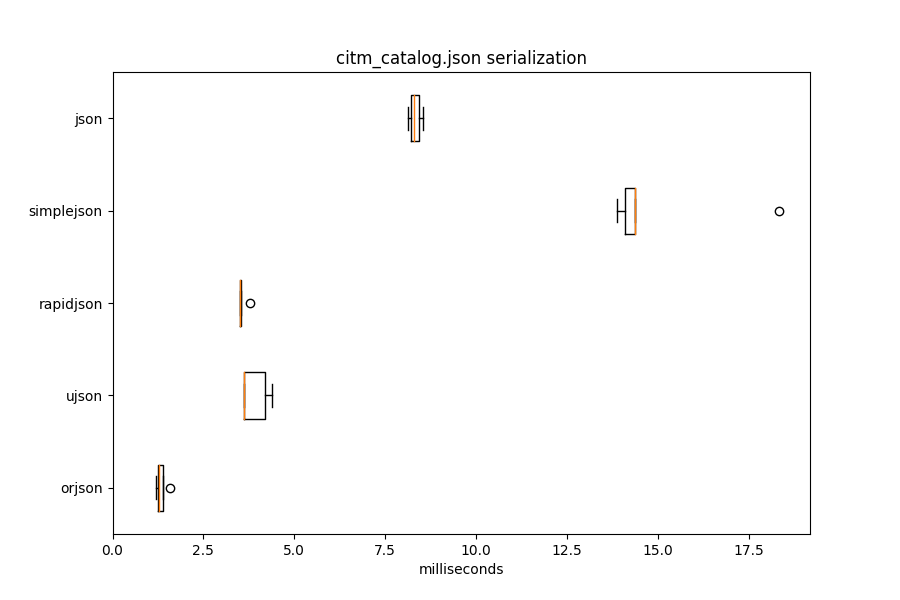
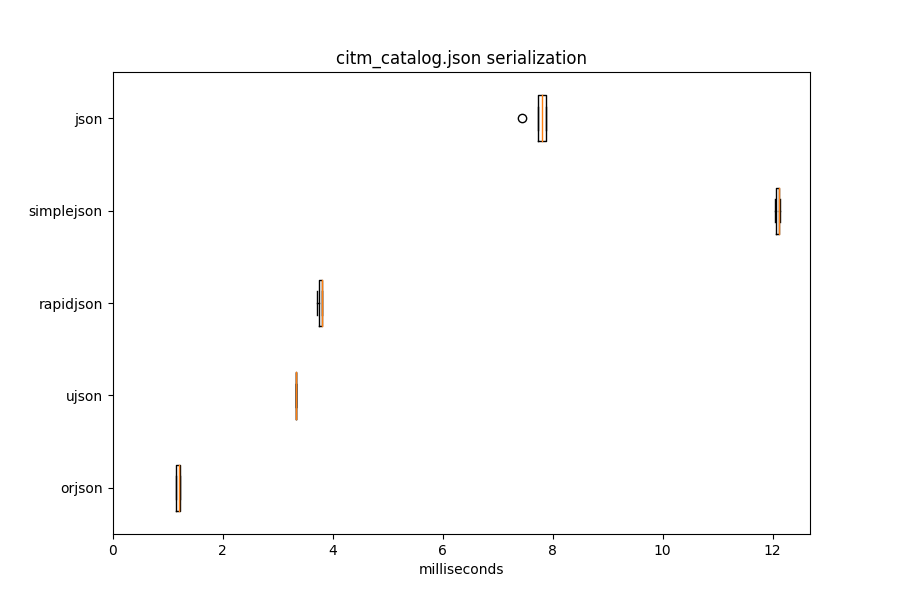
2.2.1

diff --git a/README.md b/README.md
@@ -492,81 +492,83 @@ format, containing floats and arrays, indented.
 
 | Library    |   Median latency (milliseconds) |   Operations per second |   Relative (latency) |
 |------------|---------------------------------|-------------------------|----------------------|
-| orjson     |                            0.75 |                  1297.5 |                 1    |
-| ujson      |                            2.06 |                   483.5 |                 2.74 |
-| rapidjson  |                            2.12 |                   470.7 |                 2.82 |
-| simplejson |                            3.55 |                   275.2 |                 4.73 |
-| json       |                            3.57 |                   277.8 |                 4.75 |
+| orjson     |                            0.74 |                  1358.5 |                 1    |
+| ujson      |                            1.95 |                   511.1 |                 2.65 |
+| rapidjson  |                            2.58 |                   387.1 |                 3.51 |
+| simplejson |                            3.49 |                   287   |                 4.74 |
+| json       |                            3.4  |                   294.4 |                 4.61 |
 
 #### twitter.json deserialization
 
 | Library    |   Median latency (milliseconds) |   Operations per second |   Relative (latency) |
 |------------|---------------------------------|-------------------------|----------------------|
-| orjson     |                            3.29 |                   302.3 |                 1    |
-| ujson      |                            3.65 |                   281.2 |                 1.11 |
-| rapidjson  |                            5.6  |                   179.1 |                 1.7  |
-| simplejson |                            5.19 |                   188.3 |                 1.58 |
-| json       |                            5.62 |                   184.2 |                 1.71 |
+| orjson     |                            2.74 |                   364.5 |                 1    |
+| ujson      |                            3.01 |                   332.7 |                 1.1  |
+| rapidjson  |                            3.98 |                   251.1 |                 1.45 |
+| simplejson |                            3.64 |                   275.5 |                 1.33 |
+| json       |                            4.27 |                   234.5 |                 1.56 |
 
 #### github.json serialization
 
 | Library    |   Median latency (milliseconds) |   Operations per second |   Relative (latency) |
 |------------|---------------------------------|-------------------------|----------------------|
-| orjson     |                            0.08 |                 12363.5 |                 1    |
-| ujson      |                            0.2  |                  4834.3 |                 2.55 |
-| rapidjson  |                            0.23 |                  4385.4 |                 2.84 |
-| simplejson |                            0.42 |                  2360.3 |                 5.28 |
-| json       |                            0.36 |                  2709.1 |                 4.53 |
+| orjson     |                            0.08 |                 12278.6 |                 1    |
+| ujson      |                            0.19 |                  5243.6 |                 2.33 |
+| rapidjson  |                            0.29 |                  3427.9 |                 3.57 |
+| simplejson |                            0.47 |                  2125.3 |                 5.77 |
+| json       |                            0.36 |                  2774.1 |                 4.4  |
 
 #### github.json deserialization
 
 | Library    |   Median latency (milliseconds) |   Operations per second |   Relative (latency) |
 |------------|---------------------------------|-------------------------|----------------------|
-| orjson     |                            0.25 |                  3992.4 |                 1    |
-| ujson      |                            0.32 |                  3065.1 |                 1.28 |
-| rapidjson  |                            0.42 |                  2400.2 |                 1.68 |
-| simplejson |                            0.3  |                  3293.5 |                 1.21 |
-| json       |                            0.38 |                  2410   |                 1.54 |
+| orjson     |                            0.23 |                  4300.7 |                 1    |
+| ujson      |                            0.29 |                  3459.3 |                 1.24 |
+| rapidjson  |                            0.33 |                  2980.8 |                 1.43 |
+| simplejson |                            0.31 |                  3186.4 |                 1.36 |
+| json       |                            0.35 |                  2892.5 |                 1.5  |
 
 #### citm_catalog.json serialization
 
 | Library    |   Median latency (milliseconds) |   Operations per second |   Relative (latency) |
 |------------|---------------------------------|-------------------------|----------------------|
-| orjson     |                            1.27 |                   746.2 |                 1    |
-| ujson      |                            3.63 |                   257.1 |                 2.86 |
-| rapidjson  |                            3.52 |                   279.8 |                 2.77 |
-| simplejson |                           14.37 |                    66.6 |                11.31 |
-| json       |                            8.28 |                   120.2 |                 6.52 |
+| orjson     |                            1.21 |                   835   |                 1    |
+| ujson      |                            3.33 |                   299.9 |                 2.76 |
+| rapidjson  |                            3.8  |                   264.8 |                 3.14 |
+| simplejson |                           12.12 |                    82.7 |                10.02 |
+| json       |                            7.81 |                   129   |                 6.46 |
 
 #### citm_catalog.json deserialization
 
 | Library    |   Median latency (milliseconds) |   Operations per second |   Relative (latency) |
 |------------|---------------------------------|-------------------------|----------------------|
-| orjson     |                            5.61 |                   175.8 |                 1    |
-| ujson      |                            6.78 |                   146.8 |                 1.21 |
-| rapidjson  |                            7.71 |                   129.4 |                 1.37 |
-| simplejson |                            9.01 |                   108.8 |                 1.61 |
-| json       |                            8.49 |                   116.1 |                 1.51 |
+| orjson     |                            5.25 |                   190.5 |                 1    |
+| ujson      |                            6.49 |                   154.1 |                 1.24 |
+| rapidjson  |                            8    |                   124.9 |                 1.52 |
+| simplejson |                            7.94 |                   125.7 |                 1.51 |
+| json       |                            8.62 |                   116.1 |                 1.64 |
 
 #### canada.json serialization
 
 | Library    |   Median latency (milliseconds) |   Operations per second |   Relative (latency) |
 |------------|---------------------------------|-------------------------|----------------------|
-| orjson     |                            5.28 |                   189.6 |                 1    |
+| orjson     |                            5.54 |                   180.6 |                 1    |
 | ujson      |                                 |                         |                      |
-| rapidjson  |                           69.38 |                    14.3 |                13.14 |
-| simplejson |                           99.43 |                     9.4 |                18.84 |
-| json       |                           76.44 |                    12.9 |                14.48 |
+| rapidjson  |                           70.29 |                    14.4 |                12.69 |
+| simplejson |                           90.03 |                    11.2 |                16.25 |
+| json       |                           73.39 |                    13.6 |                13.25 |
 
 #### canada.json deserialization
 
 | Library    |   Median latency (milliseconds) |   Operations per second |   Relative (latency) |
 |------------|---------------------------------|-------------------------|----------------------|
-| orjson     |                           22.22 |                    45.1 |                 1    |
+| orjson     |                           19.6  |                    51   |                 1    |
 | ujson      |                                 |                         |                      |
-| rapidjson  |                           44.56 |                    21.4 |                 2.01 |
-| simplejson |                           42.99 |                    23.2 |                 1.93 |
-| json       |                           44.69 |                    21.4 |                 2.01 |
+| rapidjson  |                           42.02 |                    23.9 |                 2.14 |
+| simplejson |                           40.19 |                    24.9 |                 2.05 |
+| json       |                           41.5  |                    24.1 |                 2.12 |
+
+
 
 If a row is blank, the library did not serialize and deserialize the fixture without
 modifying it, e.g., returning different values for floating point numbers.
@@ -584,46 +586,46 @@ calling `loads()` on the fixture.
 
 | Library    |   import, read() RSS (MiB) |   loads() increase in RSS (MiB) |
 |------------|----------------------------|---------------------------------|
-| orjson     |                       12.9 |                             2.8 |
-| ujson      |                       12.8 |                             4.6 |
-| rapidjson  |                       14.5 |                             6.5 |
-| simplejson |                       13.1 |                             2.7 |
-| json       |                       12.5 |                             2.4 |
+| orjson     |                       13.7 |                             2.4 |
+| ujson      |                       13.4 |                             4   |
+| rapidjson  |                       14.8 |                             6.5 |
+| simplejson |                       13.3 |                             2.5 |
+| json       |                       12.8 |                             2.6 |
 
 #### github.json
 
 | Library    |   import, read() RSS (MiB) |   loads() increase in RSS (MiB) |
 |------------|----------------------------|---------------------------------|
-| orjson     |                       12.3 |                             0.3 |
-| ujson      |                       12.6 |                             0.5 |
-| rapidjson  |                       13.9 |                             0.4 |
+| orjson     |                       12.9 |                             0.3 |
+| ujson      |                       12.5 |                             0.4 |
+| rapidjson  |                       13.9 |                             0.6 |
 | simplejson |                       12.5 |                             0.3 |
-| json       |                       11.7 |                             0.3 |
+| json       |                       12.1 |                             0.4 |
 
 #### citm_catalog.json
 
 | Library    |   import, read() RSS (MiB) |   loads() increase in RSS (MiB) |
 |------------|----------------------------|---------------------------------|
-| orjson     |                       13.7 |                             8.5 |
-| ujson      |                       13.9 |                            12   |
-| rapidjson  |                       15.4 |                            30.2 |
-| simplejson |                       14.1 |                            25   |
-| json       |                       13.5 |                            24.9 |
+| orjson     |                       14.6 |                             7.7 |
+| ujson      |                       14.5 |                            10.8 |
+| rapidjson  |                       15.7 |                            26.1 |
+| simplejson |                       14.3 |                            16   |
+| json       |                       14.1 |                            24.1 |
 
 #### canada.json
 
 | Library    | import, read() RSS (MiB)   | loads() increase in RSS (MiB)   |
 |------------|----------------------------|---------------------------------|
-| orjson     | 16.5                       | 17.5                            |
+| orjson     | 17.1                       | 15.7                            |
 | ujson      |                            |                                 |
-| rapidjson  | 17.9                       | 19.6                            |
-| simplejson | 16.6                       | 21.3                            |
-| json       | 16.0                       | 21.3                            |
+| rapidjson  | 18.1                       | 17.9                            |
+| simplejson | 16.8                       | 19.6                            |
+| json       | 16.5                       | 19.5                            |
 
 ### Reproducing
 
-The above was measured using Python 3.7.4 on Linux with orjson 2.1.0,
-ujson 1.35, python-rapidson 0.8.0, and simplejson 3.16.0.
+The above was measured using Python 3.8.1 on Linux with orjson 2.2.1,
+ujson 1.35, python-rapidson 0.9.1, and simplejson 3.17.0.
 
 The latency results can be reproduced using the `pybench` and `graph`
 scripts. The memory results can be reproduced using the `pymem` script.

diff --git a/CHANGELOG.md b/CHANGELOG.md
@@ -1,5 +1,16 @@
 # Changelog
 
+## 2.2.1 - 2020-02-04
+
+### Fixed
+
+- `orjson.loads()` rejects floats that do not have a digit following
+the decimal, e.g., `-2.`, `2.e-3`.
+
+### Changed
+
+- Build Linux, macOS, and Windows wheels on more recent distributions.
+
 ## 2.2.0 - 2020-01-22
 
 ### Added
